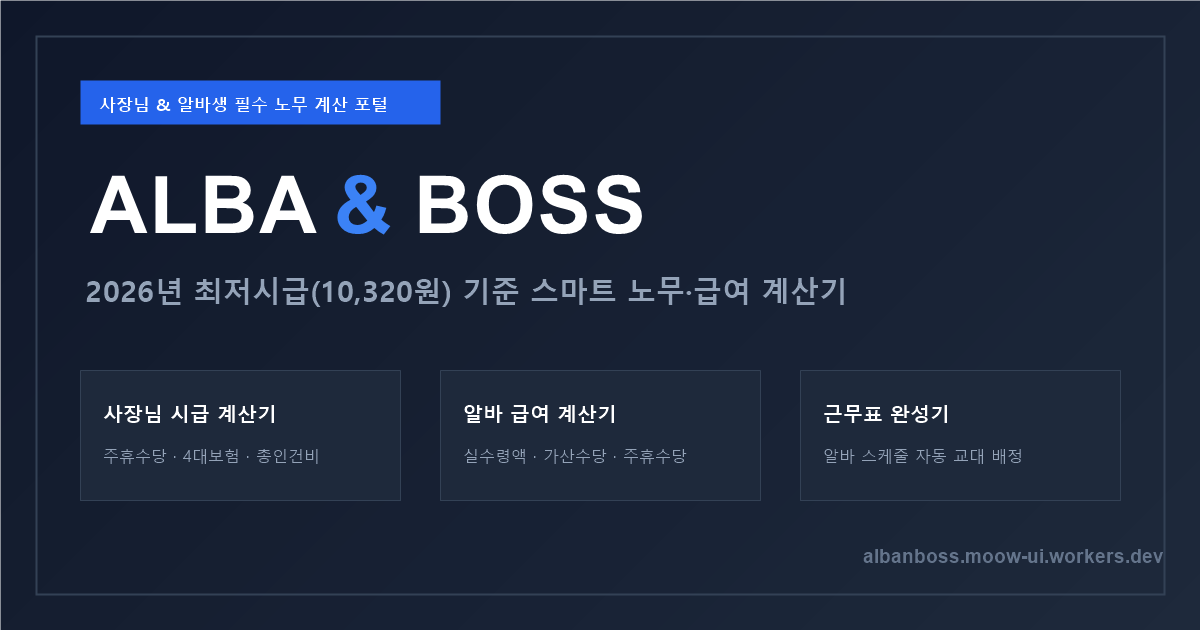
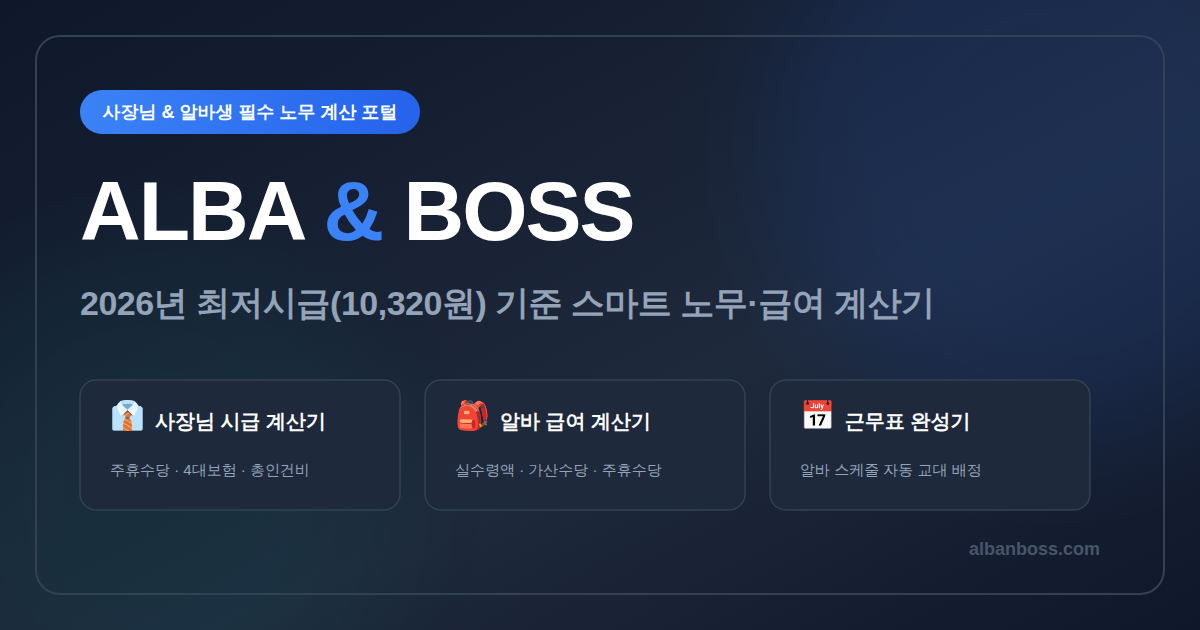
[W40-02] 공유 이미지(og-image) 속 옛 주소를 albanboss.com으로 교체
- assets/images/og-image.svg 워터마크 텍스트를 albanboss.moow-ui.workers.dev → albanboss.com으로 수정
- assets/images/og-image.png를 수정된 svg 기준으로 다시 렌더링(Playwright, 1200x630 동일)
- 재생성 스크립트: .claude/scripts/regen-og-image.js (배포 제외 폴더, 다음에도 재사용 가능)
- 카카오톡 미리보기 실제 확인은 대표 결재함 항목으로 별도 등록 예정(회의록 W40-02 완료 기준 참고)

Claude-Session: https://claude.ai/code/session_01SY39eoR8BHNK5rs2G2RFGp

diff --git a/.claude/scripts/regen-og-image.js b/.claude/scripts/regen-og-image.js
@@ -1,0 +1,17 @@
+// og-image.svg를 그대로 렌더링해 og-image.png(1200x630)로 다시 저장한다.
+// W40-02: 이미지 속 옛 주소(albanboss.moow-ui.workers.dev) 교체 후 PNG 동기화.
+const path = require('path');
+const { chromium } = require('/opt/node22/lib/node_modules/playwright');
+
+const repoRoot = path.join(__dirname, '..', '..');
+const svgPath = path.join(repoRoot, 'assets', 'images', 'og-image.svg');
+const pngPath = path.join(repoRoot, 'assets', 'images', 'og-image.png');
+
+(async () => {
+  const browser = await chromium.launch({ executablePath: '/opt/pw-browsers/chromium' });
+  const page = await browser.newPage({ viewport: { width: 1200, height: 630 } });
+  await page.goto('file://' + svgPath);
+  await page.screenshot({ path: pngPath, clip: { x: 0, y: 0, width: 1200, height: 630 } });
+  await browser.close();
+  console.log('저장:', pngPath);
+})();
